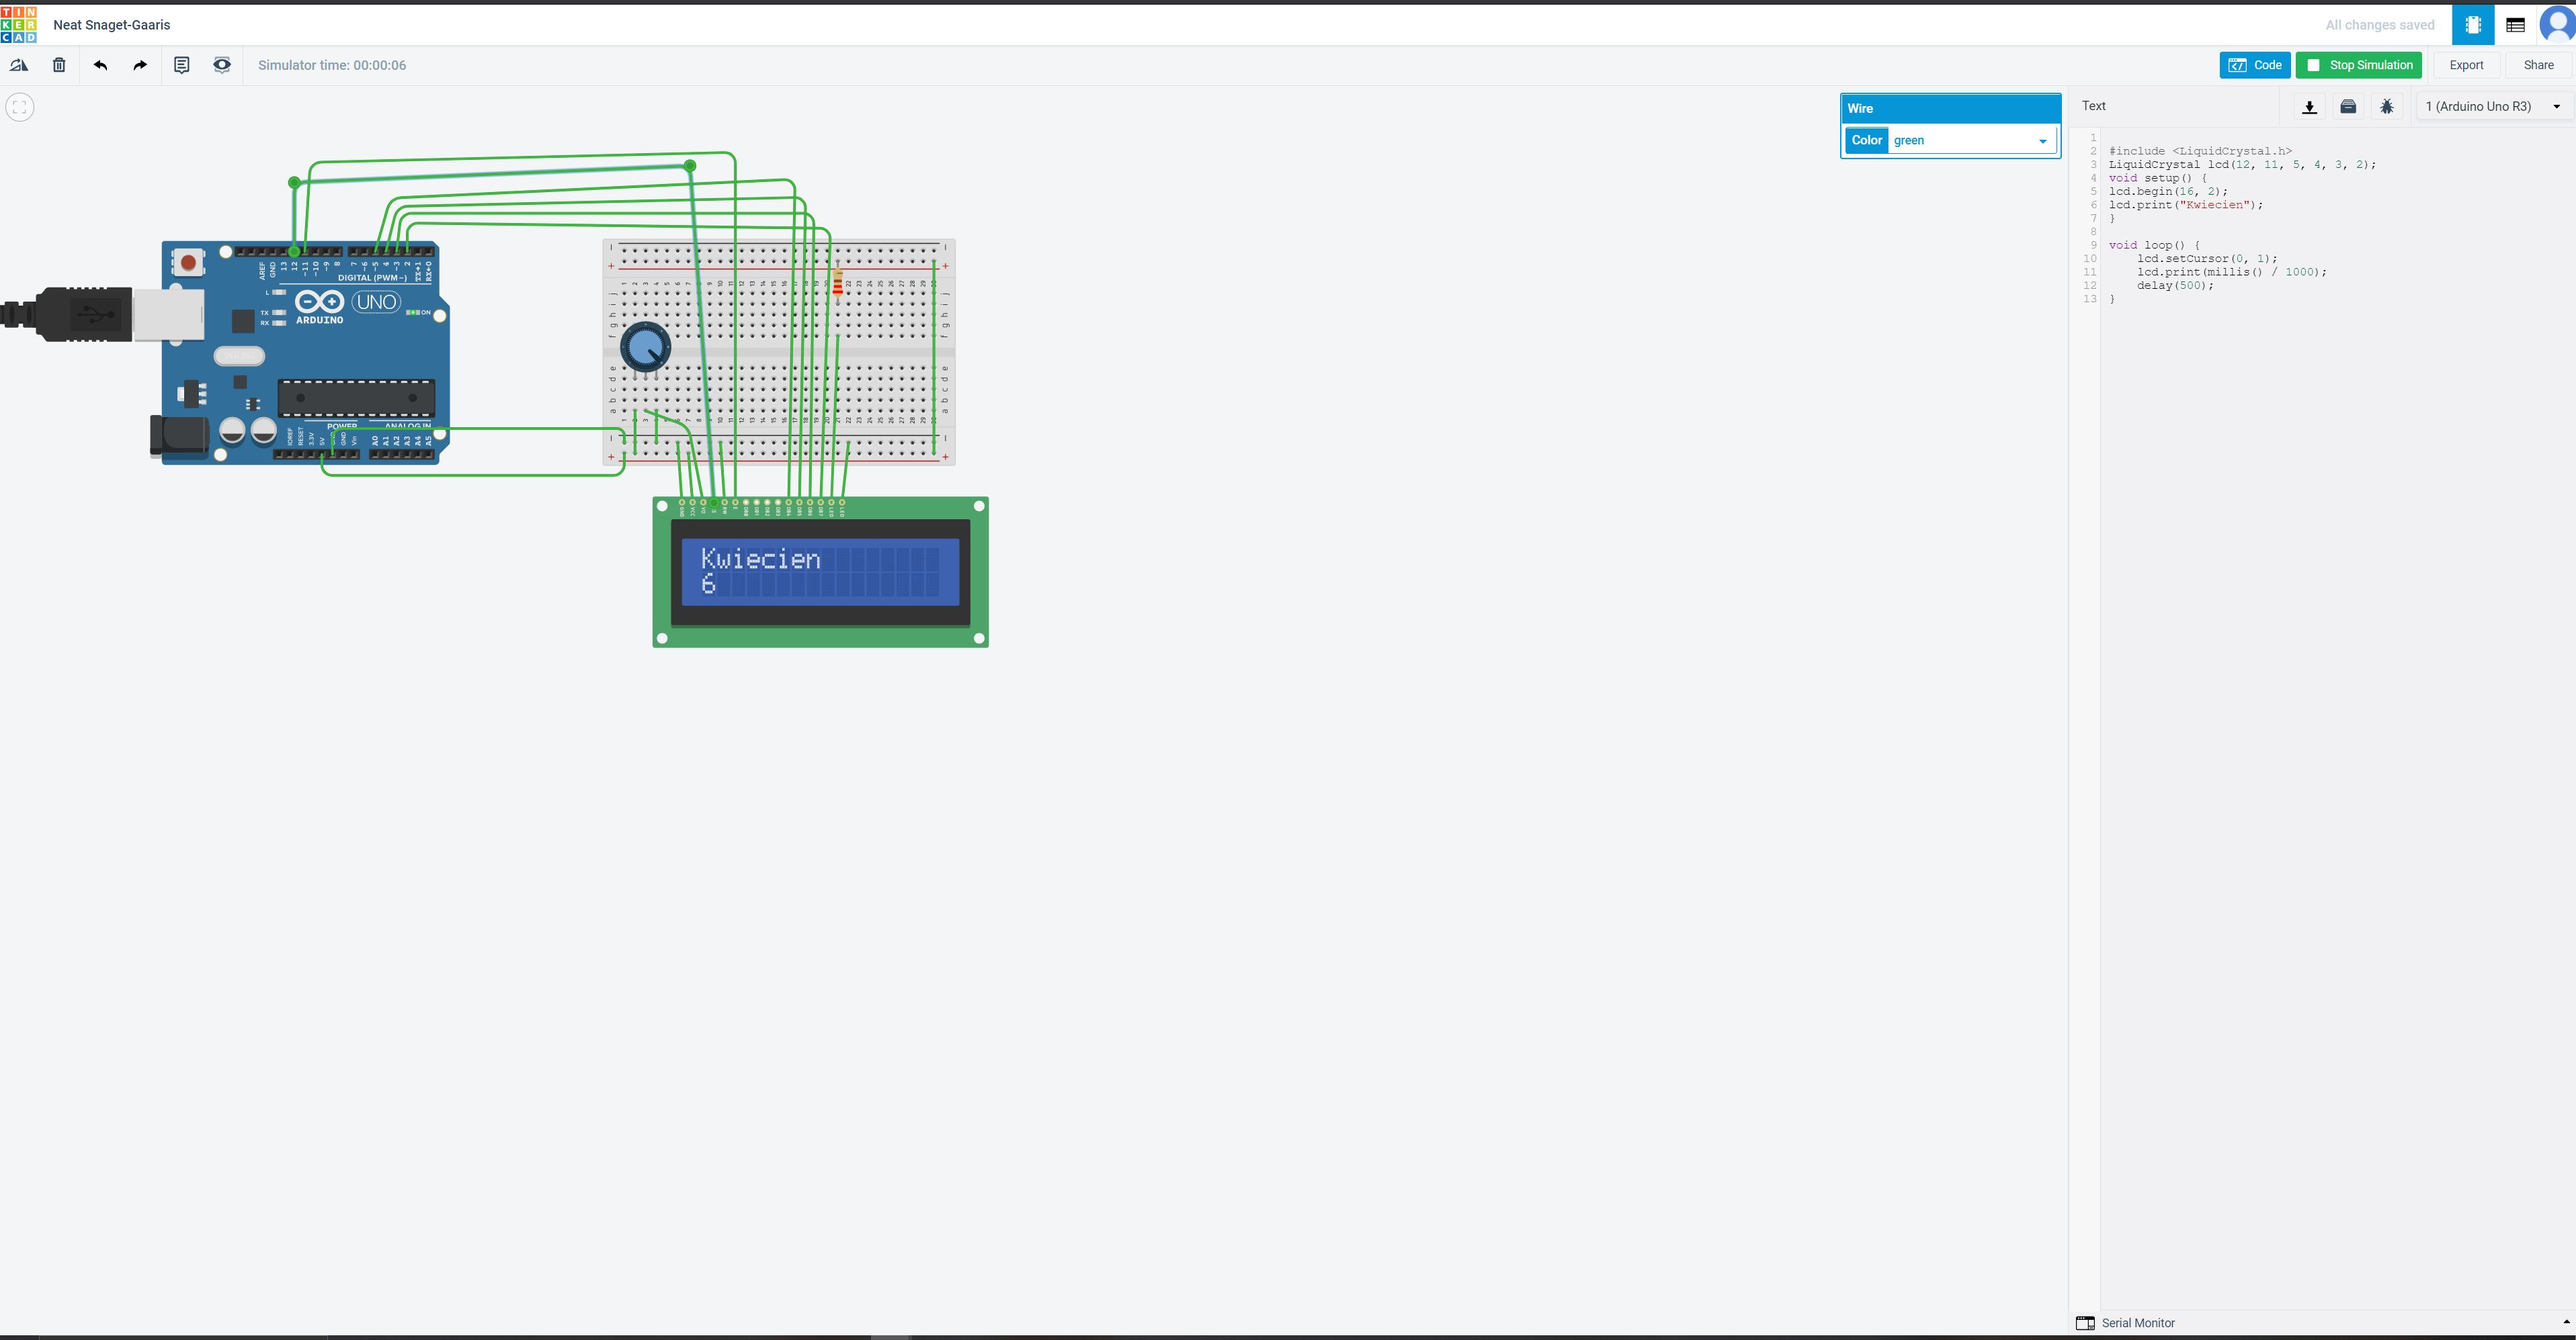
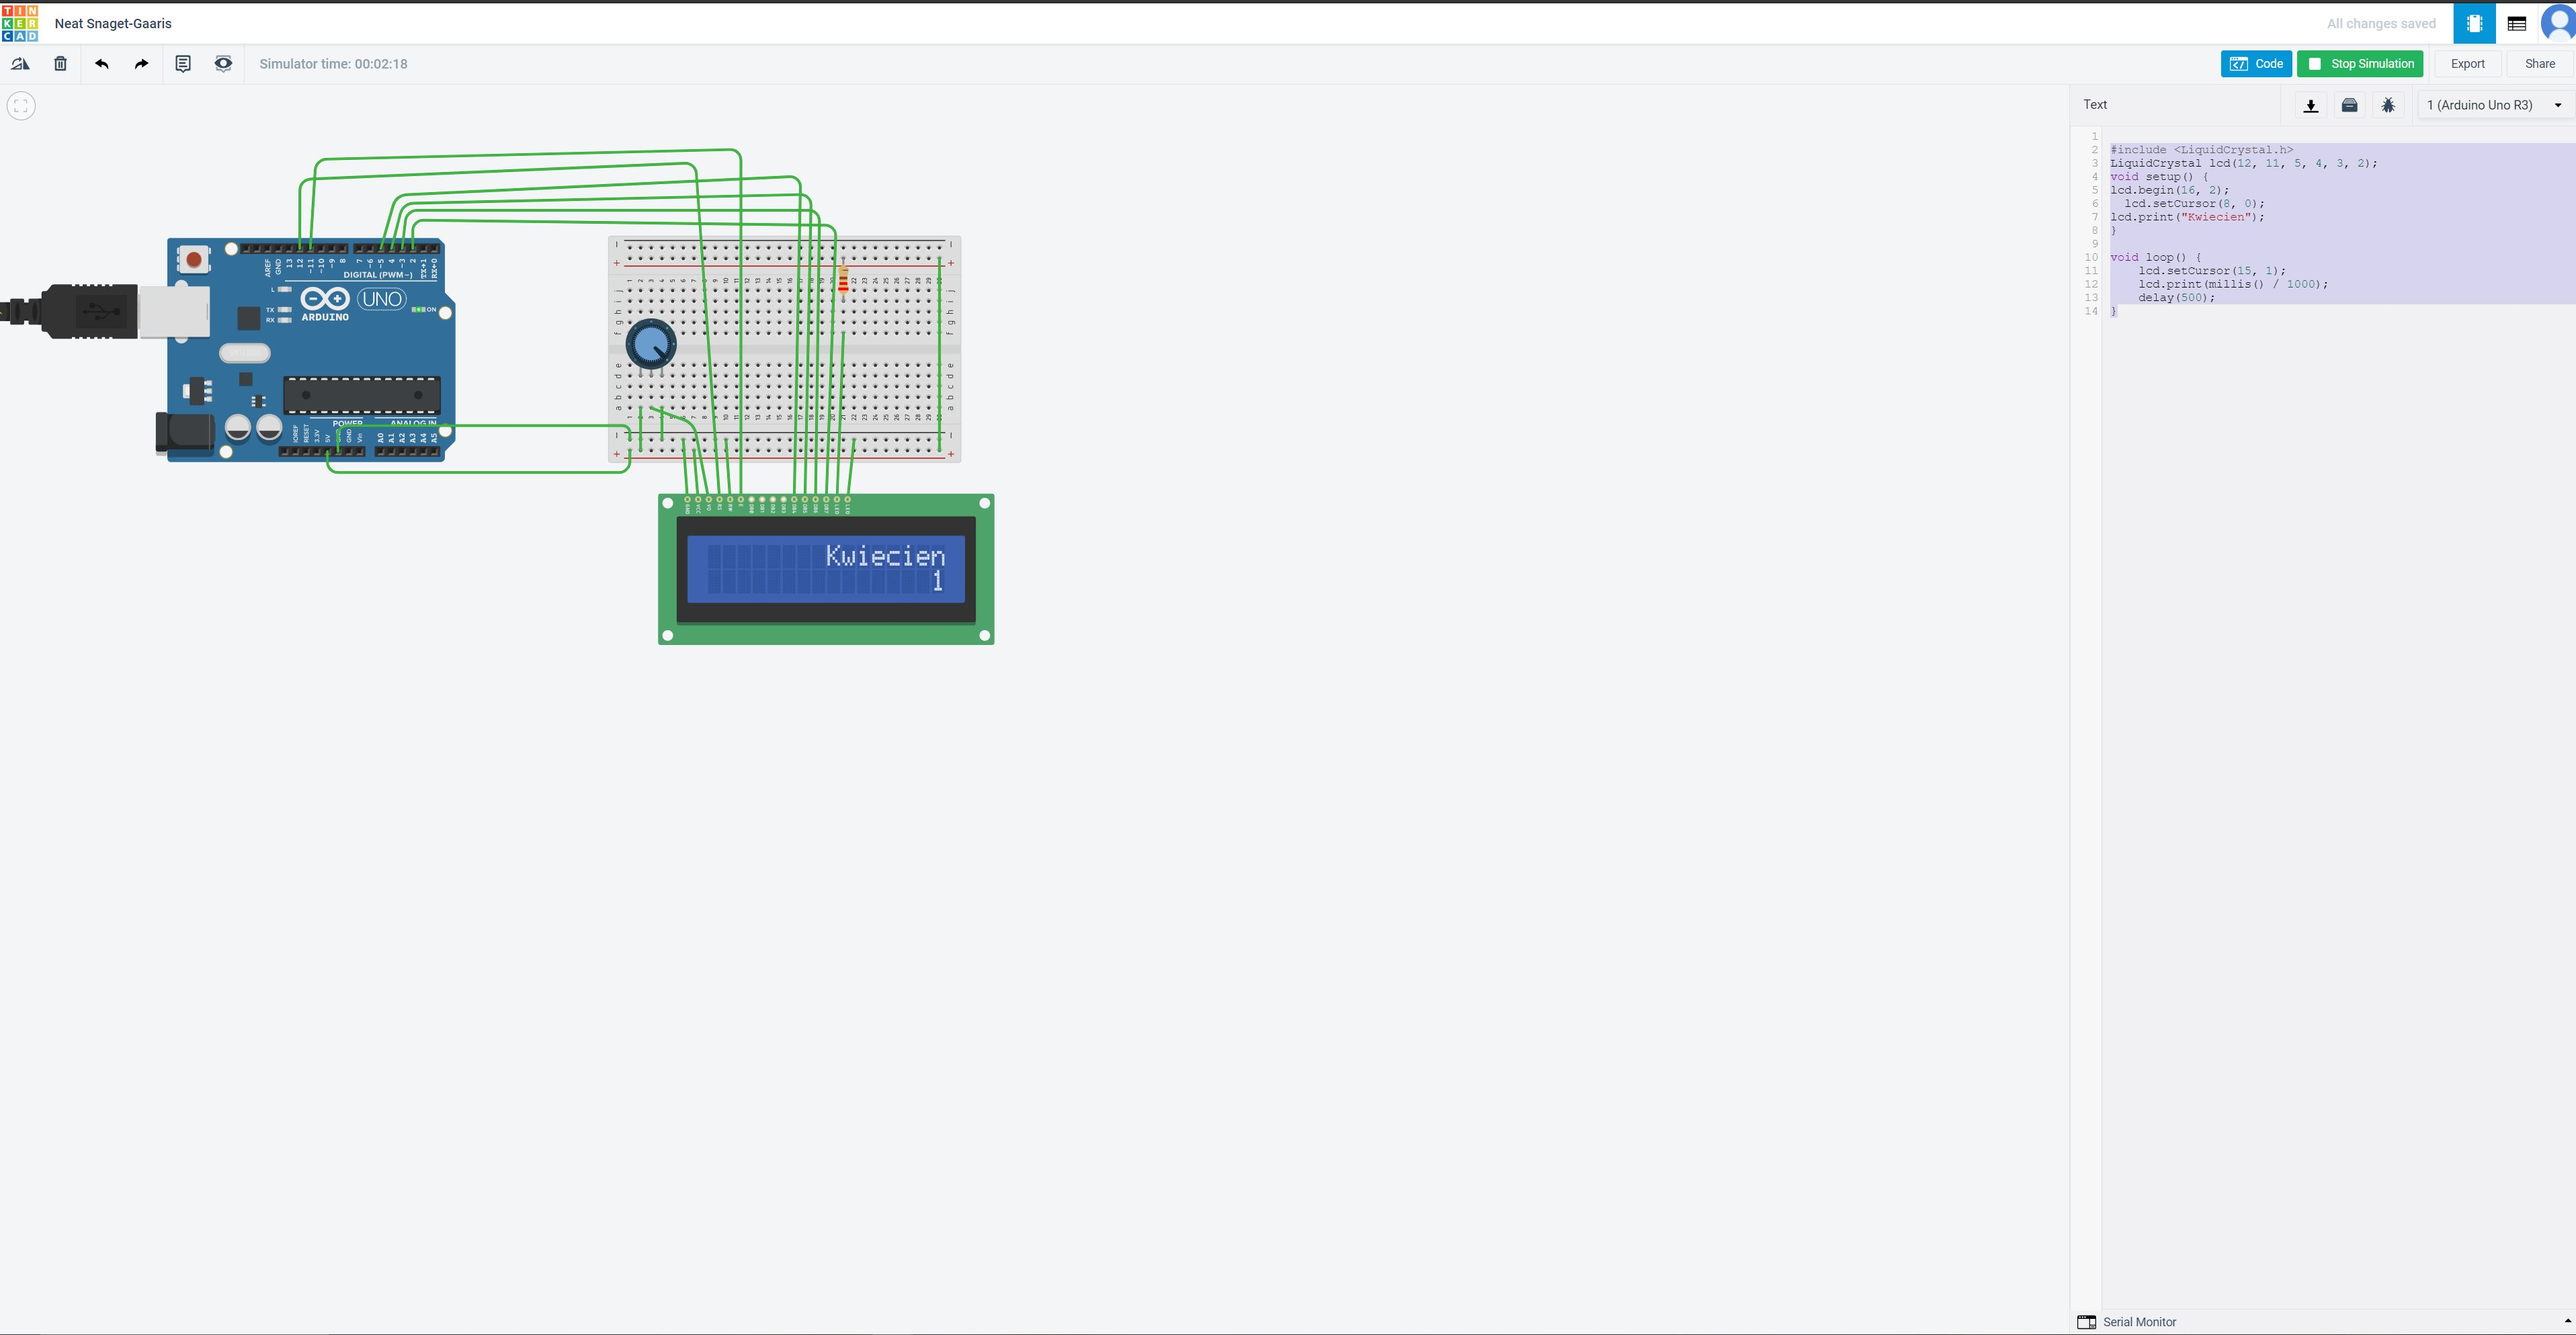
Wykonano zadanie 3.3.1 –tekst statyczny

diff --git a/Zadanie-3-2/src/main.cpp b/Zadanie-3-2/src/main.cpp
@@ -1,35 +1,105 @@
 #include <Arduino.h>
 
 uint8_t cyfra[10] = {0b0111111, 0b0000110, 0b1011011, 0b1001111, 0b1100110,
-                  0b1101101, 0b1111101, 0b0000111, 0b1111111, 0b1101111};
+                     0b1101101, 0b1111101, 0b0000111, 0b1111111, 0b1101111};
+
+uint8_t D3Val = 0, D2Val = 0, D1Val = 0, D0Val = 0;
+uint16_t licznik = 0;
+
+void set_digit(int8_t digitNo);
 void dec_to_7seg(uint8_t dec);
 
-void setup() {
-    for (uint8_t i= 0; i < 8; i++) {
-        pinMode(i, OUTPUT);
-        digitalWrite(i, HIGH);
-    }
+void setup () {
+  for (uint8_t i = 0; i < 8; i++) {
+    pinMode(i, OUTPUT);
+    digitalWrite(i, HIGH);
+   }
 
-    for (uint8_t i=8; i < 12; i++) {
-        pinMode(i, OUTPUT);
-        digitalWrite(i, LOW);
-    }
-    digitalWrite(8, HIGH);
+   for (uint8_t i = 8; i < 12; i++) {
+    pinMode(i, OUTPUT);
+    digitalWrite(i, LOW);
+   }
+
+   noInterrupts ();
+   TCCR1A = 0;
+   TCCR1B = 0;
+   TCNT1 = 0;
+
+   OCR1A = 125;
+   TCCR1B |= (1 << WGM12);
+   TCCR1B |= (1 << CS12);
+   TIMSK1 |= (1 << OCIE1A);
+   interrupts();
 }
 
 void loop() {
-    for (int i=0; i < 10; i++) {
-        dec_to_7seg(i);
-        delay(1000);
-    }
+    licznik++;
+    if (licznik > 9999)
+    licznik = 0;
+
+    D3Val = (licznik / 1000);
+    D2Val = (licznik - (D3Val * 1000)) / 100;
+    D1Val = (licznik - (D3Val * 1000) - (D2Val * 100)) / 10;
+    D0Val = (licznik - (D3Val * 1000) - (D2Val*100) - (D1Val * 10));
+
+    delay(10);
 }
 
 void dec_to_7seg(uint8_t dec) {
-    for (uint8_t i=0; i < 8; i++){
+    for (uint8_t i = 0; i < 8; i++) {
         if (cyfra[dec] & (1 << i))
         digitalWrite(i, LOW);
         else
-        digitalWrite(i,HIGH);
-        
+    digitalWrite(i, HIGH);
     }
+}
+
+void set_digit(int8_t digitNo) {
+    if (digitNo == 0) {
+        digitalWrite(8, HIGH);
+        digitalWrite(9, LOW);
+        digitalWrite(10, LOW);
+        digitalWrite(11, LOW);
+    }
+    if (digitNo == 1) {
+        digitalWrite(8, LOW);
+        digitalWrite(9, HIGH);
+        digitalWrite(10, LOW);
+        digitalWrite(11, LOW); 
+    }
+    if (digitNo == 2) {
+        digitalWrite(8, LOW);
+        digitalWrite(9, LOW);
+        digitalWrite(10, HIGH);
+        digitalWrite(11, LOW); 
+    }
+    if (digitNo == 3) {
+        digitalWrite(8, LOW);
+        digitalWrite(9, LOW);
+        digitalWrite(10, LOW);
+        digitalWrite(11, HIGH);
+    }
+}
+
+ISR(TIMER1_COMPA_vect) {
+    static int8_t led = 3;
+    if (led == 3) {
+        set_digit(3);
+        dec_to_7seg(D3Val);
+    }
+    if (led == 2) {
+        set_digit(2);
+        dec_to_7seg(D2Val);
+    }
+    if (led == 1) {
+        set_digit(1);
+        dec_to_7seg(D1Val);
+    }
+    if (led == 0) {
+        set_digit(0);
+        dec_to_7seg(D0Val);
+    }
+    led--;
+    if (led < 0)
+    led = 3;
 }

diff --git a/Zadanie-3-3/src/main.cpp b/Zadanie-3-3/src/main.cpp
@@ -1,30 +1,14 @@
 #include <Arduino.h>
 #include <LiquidCrystal.h>
-
 LiquidCrystal lcd(12, 11, 5, 4, 3, 2);
-char tablica[] = "Szymon";
-int tabLen = 0;
-
-void lcdClear(void);
-
-void setup() {
-    lcd.begin(16, 2);
-    lcd.print("Szymon Kwiecien");
-    tabLen = sizeof(tablica);
-    delay(2000);
+void setup() {  
+lcd.begin(16, 2);
+  lcd.setCursor(8, 0);
+lcd.print("Kwiecien");
 }
 
-void loop() {
-    for (int i =0; i < (18 - tabLen); i++) {
-        lcdClear();
-        lcd.setCursor(i, 0);
-        lcd.print(tablica);
-        delay(1000);
-    }
+void loop() {  
+    lcd.setCursor(15, 1);
+    lcd.print(millis() / 1000);
+    delay(500);
 }
-
-void lcdClear(void) {
-    lcd.setCursor(0,0);
-    lcd.print("                    ");
-    lcd.setCursor(0,1);
-    lcd.print("                    ");
